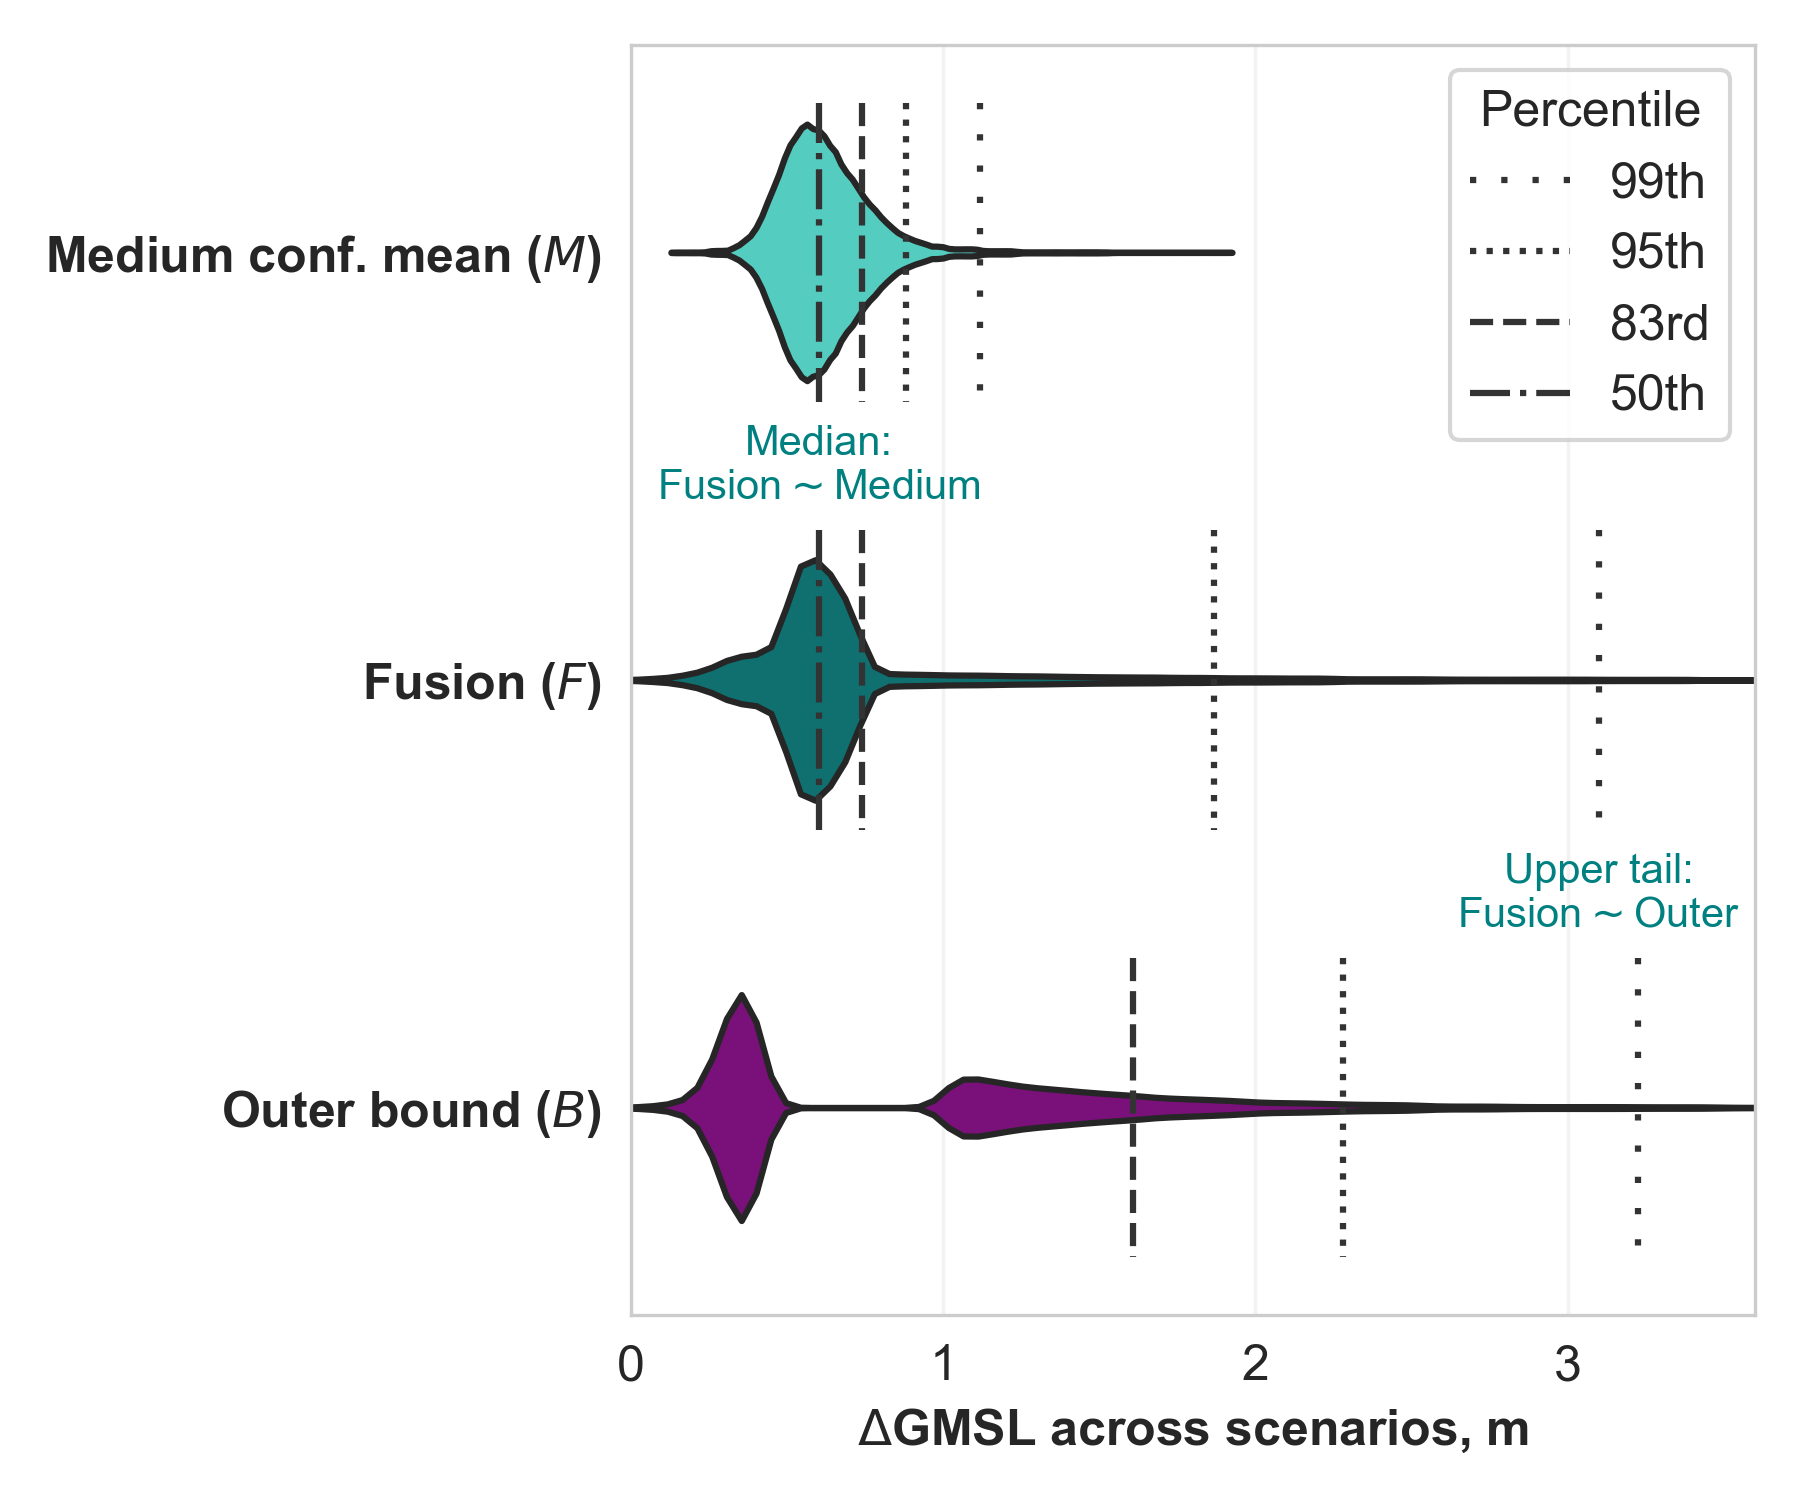
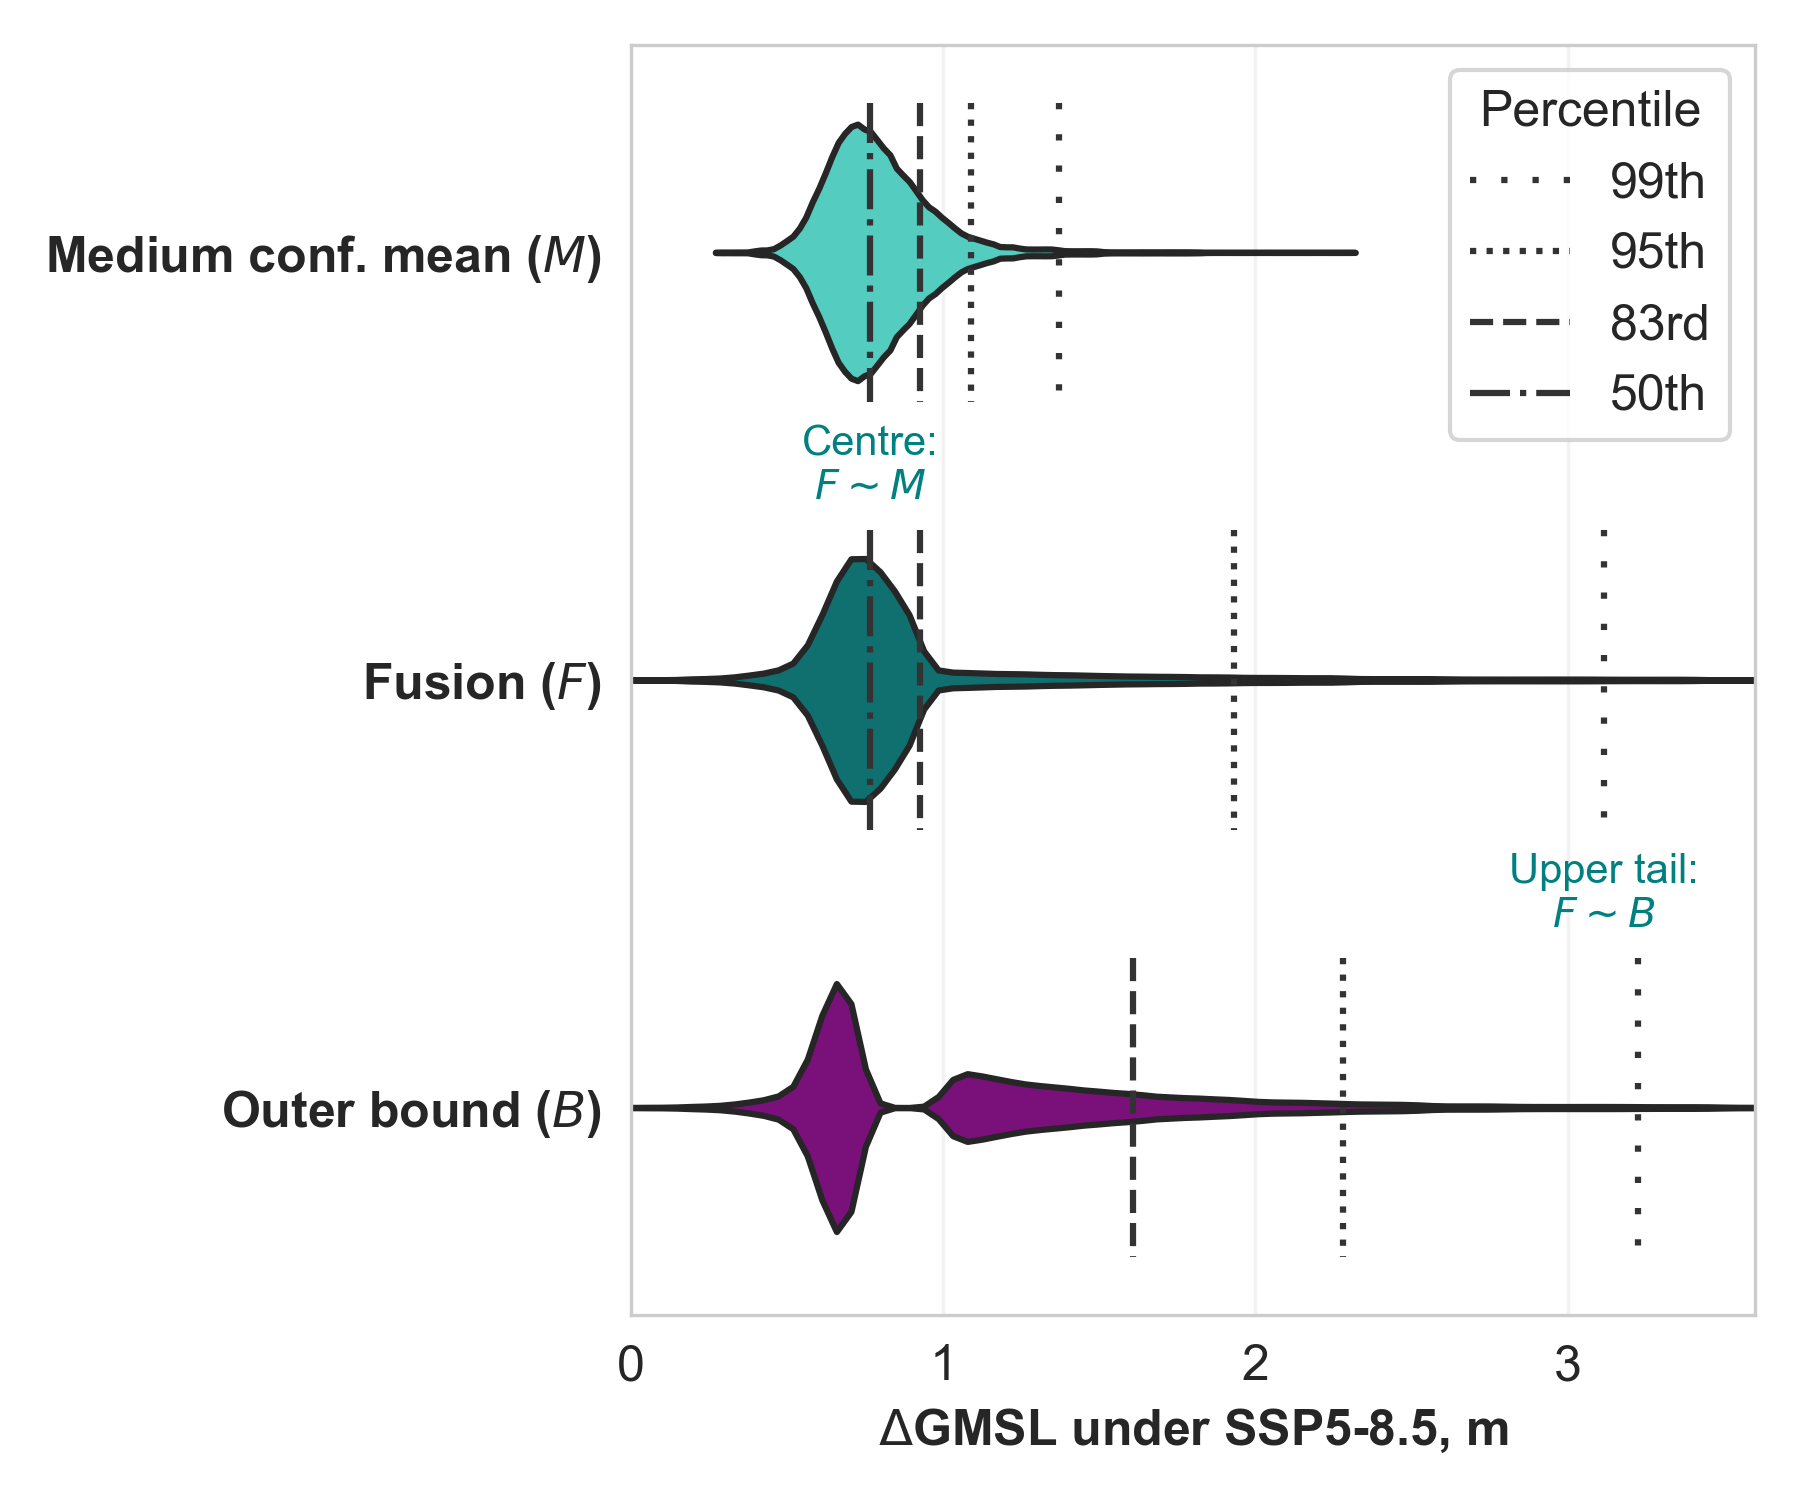
d23a.py plot_sl_violinplot(): modify/correct annotations; use scenario=’ssp585’ by default.

diff --git a/d23a.py b/d23a.py
@@ -488,7 +488,7 @@ def plot_sl_marginals(workflows=('wf_1e', 'wf_2e', 'wf_3e', 'wf_4'), bg_workflow
 
 
 def plot_sl_violinplot(workflows=('wf_2e', 'fusion_1e+2e', 'outer'),
-                       rate=False, scenario='both', year=2100, gauge=None, annotations=True, ax=None):
+                       rate=False, scenario='ssp585', year=2100, gauge=None, annotations=True, ax=None):
     """
     Plot violinplot of marginal densities corresponding to projections of total sea level.
 
@@ -500,7 +500,7 @@ def plot_sl_violinplot(workflows=('wf_2e', 'fusion_1e+2e', 'outer'),
     rate : bool
         If True, return rate of sea-level rise. If False (default), return sea-level rise.
     scenario : str
-        Options are 'ssp126', 'ssp585', and 'both' (default).
+        Options are 'ssp126', 'ssp585' (default), and 'both'.
     year : int
         Year. Default is 2100.
     gauge : int, str, or None.
@@ -539,8 +539,8 @@ def plot_sl_violinplot(workflows=('wf_2e', 'fusion_1e+2e', 'outer'),
     if annotations:
         for p, y, text in zip(
                 [50, 99], [0.5, 1.5],
-                [f'Median:\n{WF_LABEL_DICT[workflows[1]].split()[0]}$\sim${WF_LABEL_DICT[workflows[0]].split()[0]}',
-                 f'Upper tail:\n{WF_LABEL_DICT[workflows[1]].split()[0]}$\sim${WF_LABEL_DICT[workflows[2]].split()[0]}']
+                [f'Centre:\n$F \sim M$',
+                 f'Upper tail:\n$F \sim B$']
                 ):
             qf_da = get_sl_qf(workflow=workflows[1], rate=rate, scenario=scenario, year=year, gauge=gauge)
             val = qf_da.sel(quantiles=p/100).data
